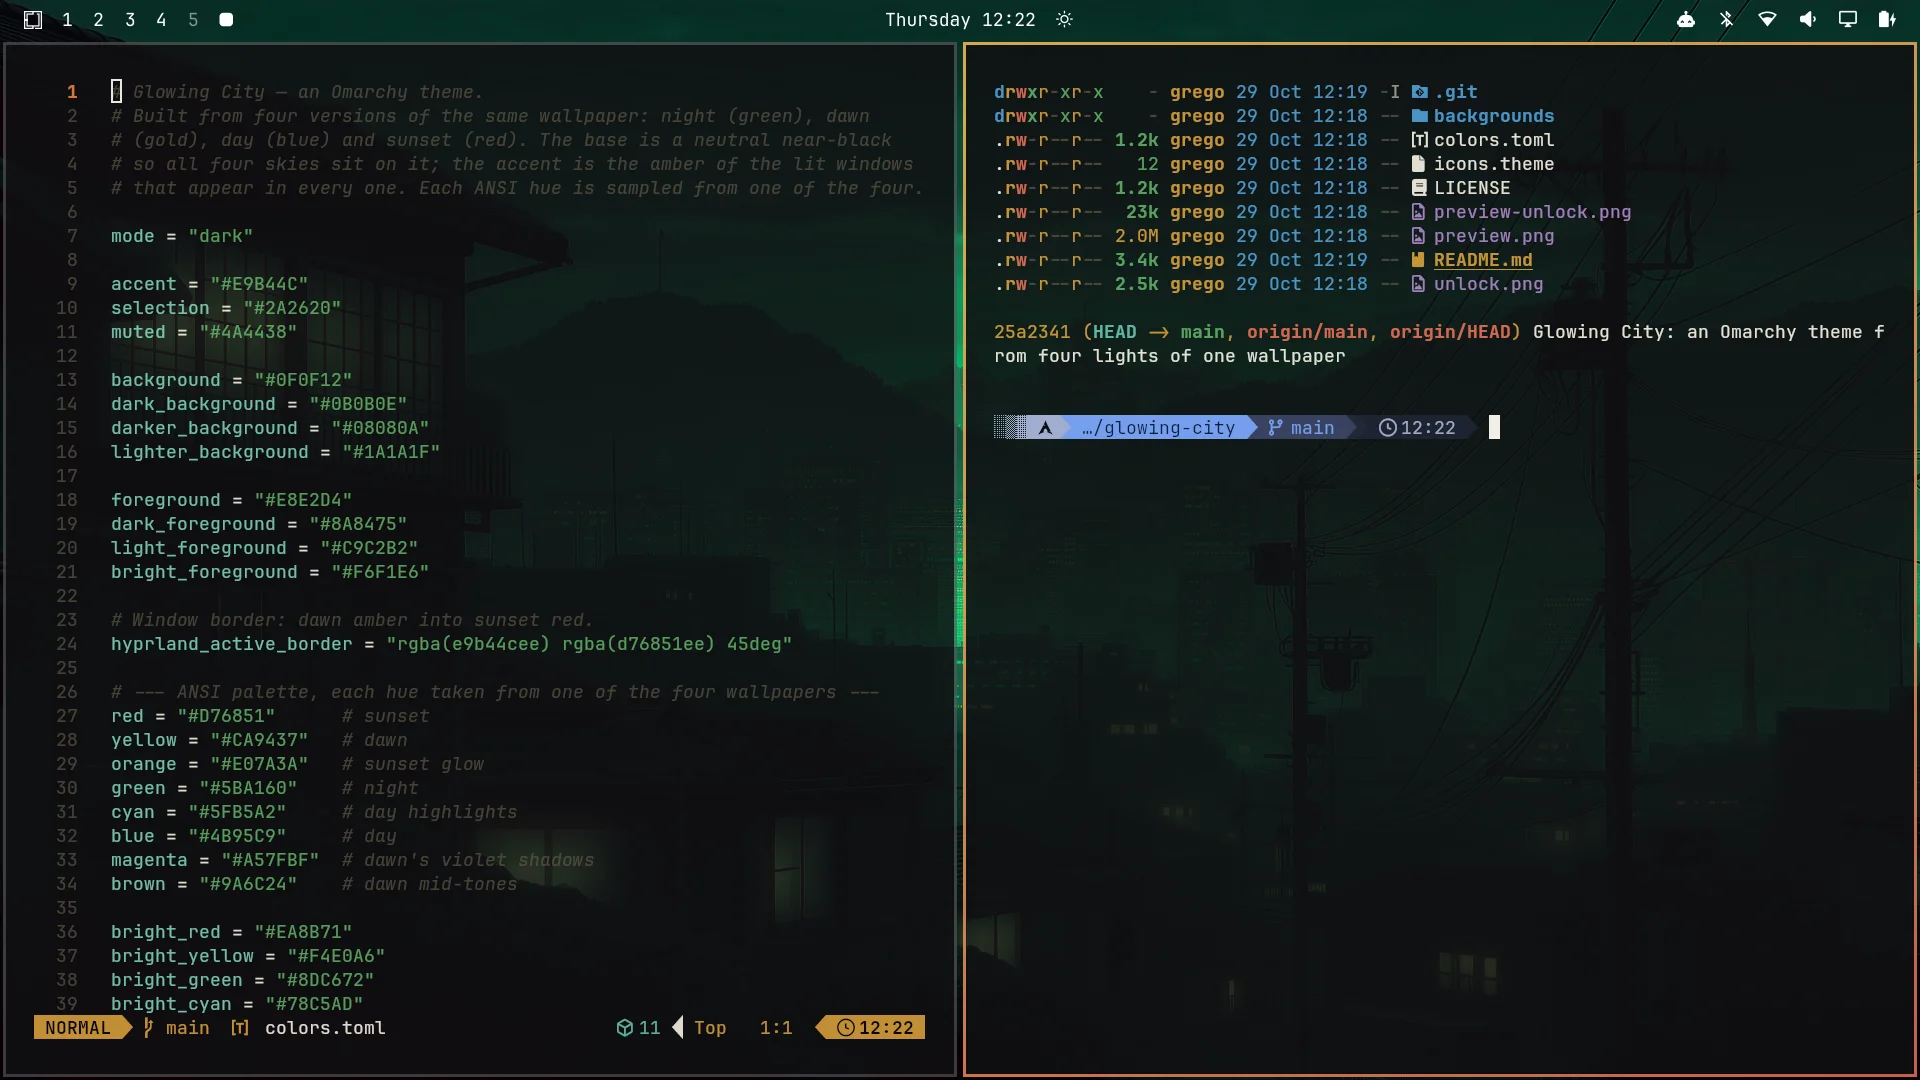
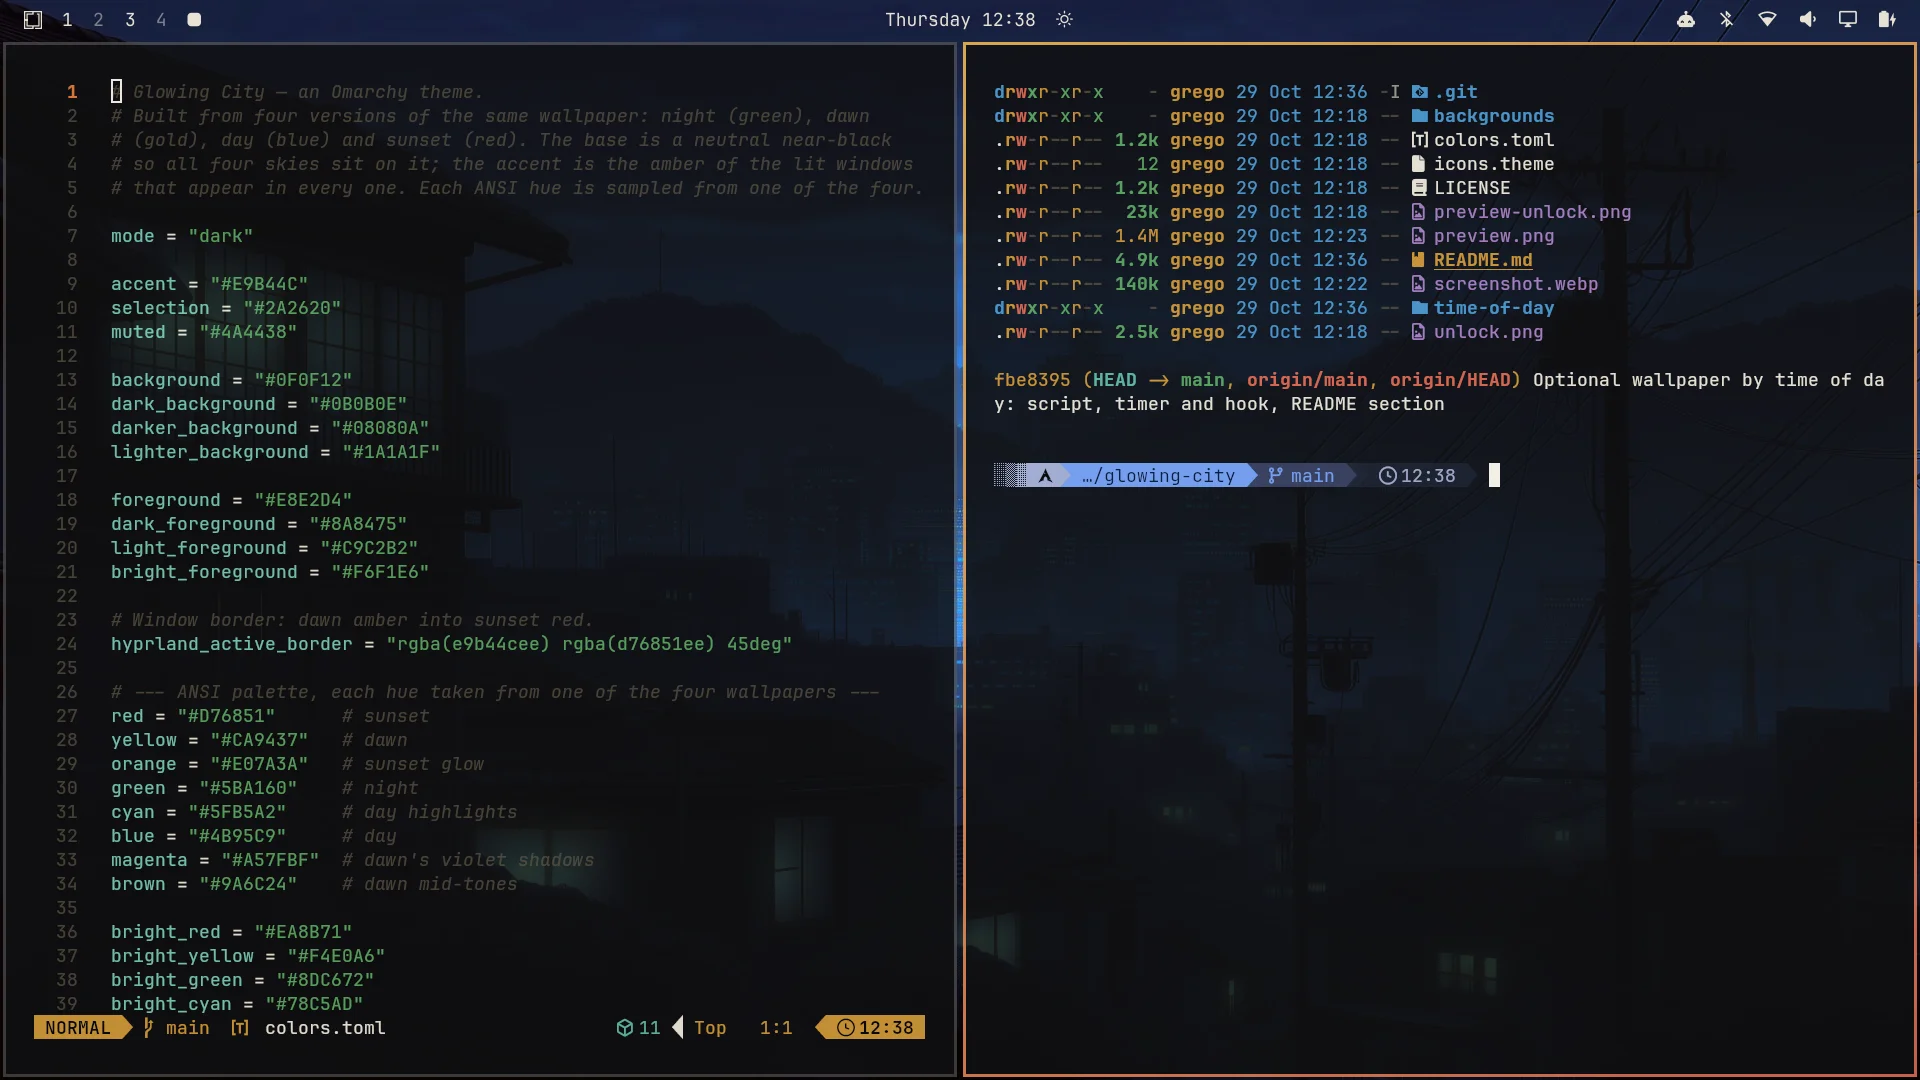
README screenshot: day wallpaper

diff --git a/README.md b/README.md
@@ -5,7 +5,7 @@ four lights: **night** (green), **dawn** (gold), **day** (blue) and
 **sunset** (red). A neutral near-black base, warm lamplight text, and an
 **amber accent** taken from the lit windows that glow in every one of them.
 
-![Glowing City — the theme's colors.toml in Neovim and the repo in the terminal, over the night wallpaper](screenshot.webp)
+![Glowing City — the theme's colors.toml in Neovim and the repo in the terminal, over the day wallpaper](screenshot.webp)
 
 ## The idea
 
